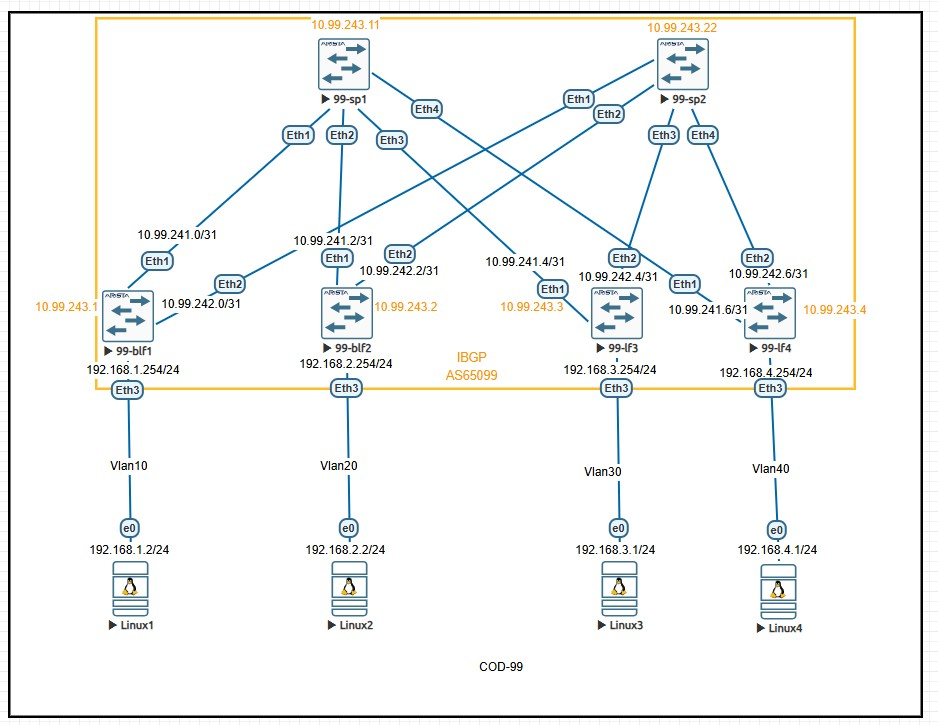
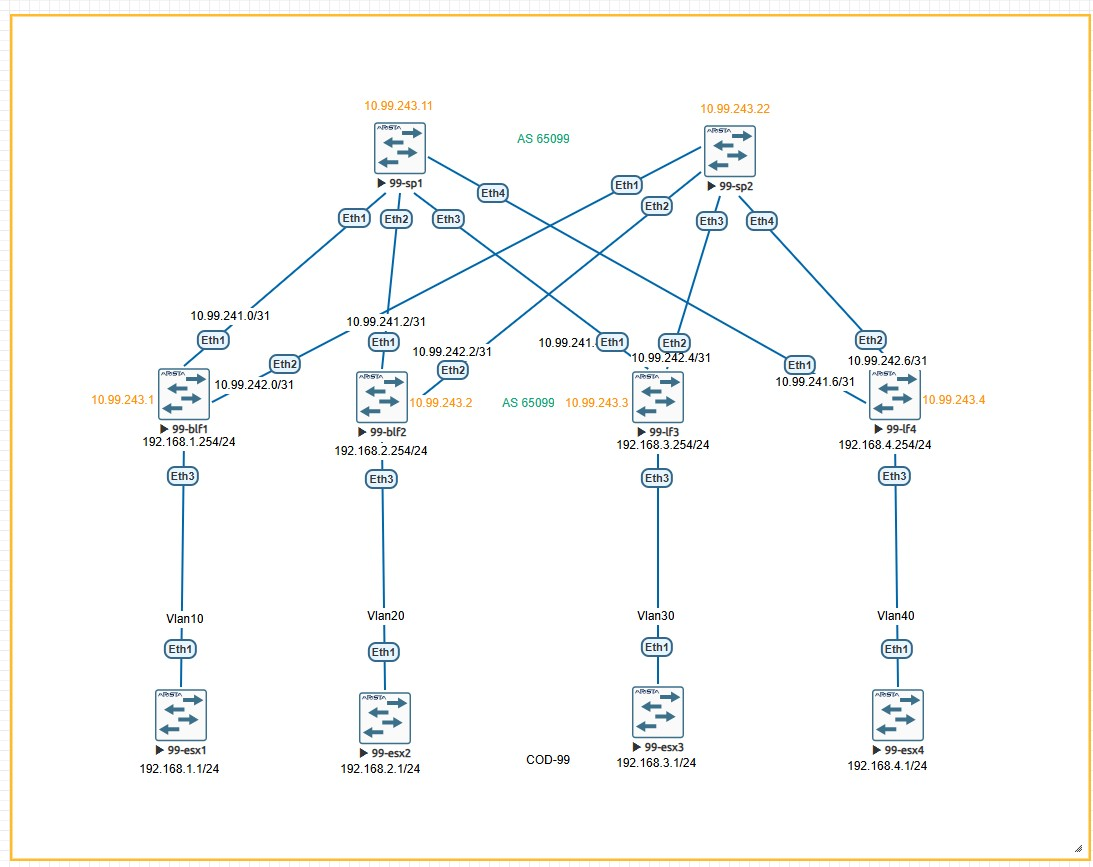
1

diff --git a/labs/lab_04(BGP)/README.md b/labs/lab_04(BGP)/README.md
@@ -451,114 +451,213 @@ ip route 0.0.0.0/0 192.168.N.254
 ---
 
 ## Проверка IP связности
- ## 1. Проверка IS-IS соседств
+ ## 1. Проверка BGP соседств
 ```
-99-sp1#sh isis neighbors
+99-sp1#sh ip bgp summary
+BGP summary information for VRF default
+Router identifier 10.99.243.11, local AS number 65099
+Neighbor Status Codes: m - Under maintenance
+  Neighbor         V  AS           MsgRcvd   MsgSent  InQ OutQ  Up/Down State   PfxRcd PfxAcc
+  10.99.241.0      4  65099            823       829    0    0 00:24:52 Estab   4      4
+  10.99.241.2      4  65099             99       102    0    0 00:04:42 Estab   2      2
+  10.99.241.4      4  65099            995      1006    0    0 00:49:31 Estab   2      2
+  10.99.241.6      4  65099            998      1004    0    0 00:49:35 Estab   4      4
+  
 
-Instance  VRF      System Id        Type Interface          SNPA              State Hold time   Circuit Id
-UNDERLAY  default  99-blf1          L2   Ethernet1          P2P               UP    28          1A     
-UNDERLAY  default  99-blf2          L2   Ethernet2          P2P               UP    28          14     
-UNDERLAY  default  99-lf3           L2   Ethernet3          P2P               UP    22          1A     
+```
+## 2.  Проверка таблицы BGP  
+```
+99-sp1#sh ip bgp
+
+
+         Network                Next Hop            Metric  LocPref Weight  Path
+ * #     10.99.241.0/31         10.99.241.0           0       100     0       i
+ * #     10.99.241.6/31         10.99.241.6           0       100     0       i
+ * >     10.99.242.0/31         10.99.241.0           0       100     0       i
+ * >     10.99.242.6/31         10.99.241.6           0       100     0       i
+ * >     10.99.243.1/32         10.99.241.0           0       100     0       i
+ * >     10.99.243.2/32         10.99.241.2           0       100     0       i
+ * >     10.99.243.3/32         10.99.241.4           0       100     0       i
+ * >     10.99.243.4/32         10.99.241.6           0       100     0       i
+ * >     10.99.243.11/32        -                     0       0       -       i
+ * >     192.168.1.0/24         10.99.241.0           0       100     0       i
+ * >     192.168.2.0/24         10.99.241.2           0       100     0       i
+ * >     192.168.3.0/24         10.99.241.4           0       100     0       i
+ * >     192.168.4.0/24         10.99.241.6           0       100     0       i
 
 ```
-## 2.  Проверка IS-IS database 
 ```
-99-sp1#sh isis database
-Legend:
-H - hostname conflict
-U - node unreachable
+99-lf3#sh ip bgp
 
-IS-IS Instance: UNDERLAY VRF: default
-  IS-IS Level 2 Link State Database
-    LSPID                   Seq Num  Cksum  Life Length IS  Received LSPID        Flags
-    99-blf1.00-00                19  49448   976    133 L2  0100.9924.3001.00-00  <>
-    99-blf2.00-00                10   3287   727    133 L2  0100.9924.3002.00-00  <>
-    99-lf3.00-00                  4   9243   591    132 L2  0100.9924.3003.00-00  <>
-    99-sp1.00-00                 15   8500   976    146 L2  0100.9924.3011.00-00  <>
-    99-sp2.00-00                  7   2840   907    146 L2  0100.9924.3022.00-00  <>
+
+         Network                Next Hop            Metric  LocPref Weight  Path
+ * >     10.99.241.0/31         10.99.242.5           0       100     0       i Or-ID: 10.99.243.1 C-LST: 10.99.243.22
+ * >     10.99.241.6/31         10.99.242.5           0       100     0       i Or-ID: 10.99.243.4 C-LST: 10.99.243.22
+ * >     10.99.242.0/31         10.99.241.5           0       100     0       i Or-ID: 10.99.243.1 C-LST: 10.99.243.11
+ * >     10.99.242.6/31         10.99.241.5           0       100     0       i Or-ID: 10.99.243.4 C-LST: 10.99.243.11
+ * >Ec   10.99.243.1/32         10.99.241.5           0       100     0       i Or-ID: 10.99.243.1 C-LST: 10.99.243.11
+ *  ec   10.99.243.1/32         10.99.242.5           0       100     0       i Or-ID: 10.99.243.1 C-LST: 10.99.243.22
+ * >Ec   10.99.243.2/32         10.99.241.5           0       100     0       i Or-ID: 10.99.243.2 C-LST: 10.99.243.11
+ *  ec   10.99.243.2/32         10.99.242.5           0       100     0       i Or-ID: 10.99.243.2 C-LST: 10.99.243.22
+ * >     10.99.243.3/32         -                     0       0       -       i
+ * >Ec   10.99.243.4/32         10.99.241.5           0       100     0       i Or-ID: 10.99.243.4 C-LST: 10.99.243.11
+ *  ec   10.99.243.4/32         10.99.242.5           0       100     0       i Or-ID: 10.99.243.4 C-LST: 10.99.243.22
+ * >     10.99.243.11/32        10.99.241.5           0       100     0       i
+ * >     10.99.243.22/32        10.99.242.5           0       100     0       i
+ * >Ec   192.168.1.0/24         10.99.241.5           0       100     0       i Or-ID: 10.99.243.1 C-LST: 10.99.243.11
+ *  ec   192.168.1.0/24         10.99.242.5           0       100     0       i Or-ID: 10.99.243.1 C-LST: 10.99.243.22
+ * >Ec   192.168.2.0/24         10.99.241.5           0       100     0       i Or-ID: 10.99.243.2 C-LST: 10.99.243.11
+ *  ec   192.168.2.0/24         10.99.242.5           0       100     0       i Or-ID: 10.99.243.2 C-LST: 10.99.243.22
+ * >     192.168.3.0/24         -                     1       0       -       i
+ * >Ec   192.168.4.0/24         10.99.241.5           0       100     0       i Or-ID: 10.99.243.4 C-LST: 10.99.243.11
+ *  ec   192.168.4.0/24         10.99.242.5           0       100     0       i Or-ID: 10.99.243.4 C-LST: 10.99.243.22
 ```
 
-## 2. Проверка IS-IS маршрутов
+## 2. Проверка таблицы маршрутов
 ```
-99-sp1#sh ip route isis
+99-lf3#sh ip route
 
 VRF: default
+Codes: C - connected, S - static, K - kernel,
+       O - OSPF, IA - OSPF inter area, E1 - OSPF external type 1,
+       E2 - OSPF external type 2, N1 - OSPF NSSA external type 1,
+       N2 - OSPF NSSA external type2, B - Other BGP Routes,
+       B I - iBGP, B E - eBGP, R - RIP, I L1 - IS-IS level 1,
+       I L2 - IS-IS level 2, O3 - OSPFv3, A B - BGP Aggregate,
+       A O - OSPF Summary, NG - Nexthop Group Static Route,
+       V - VXLAN Control Service, M - Martian,
+       DH - DHCP client installed default route,
+       DP - Dynamic Policy Route, L - VRF Leaked,
+       G  - gRIBI, RC - Route Cache Route
 
- I L2     10.99.242.0/31 [115/20]
-           via 10.99.241.0, Ethernet1
- I L2     10.99.242.2/31 [115/20]
-           via 10.99.241.2, Ethernet2
- I L2     10.99.242.4/31 [115/20]
-           via 10.99.241.4, Ethernet3
- I L2     10.99.243.1/32 [115/20]
-           via 10.99.241.0, Ethernet1
- I L2     10.99.243.2/32 [115/20]
-           via 10.99.241.2, Ethernet2
- I L2     10.99.243.3/32 [115/20]
-           via 10.99.241.4, Ethernet3
- I L2     10.99.243.22/32 [115/30]
-           via 10.99.241.0, Ethernet1
-           via 10.99.241.2, Ethernet2
-           via 10.99.241.4, Ethernet3
- I L2     192.168.1.0/24 [115/20]
-           via 10.99.241.0, Ethernet1
- I L2     192.168.2.0/24 [115/20]
-           via 10.99.241.2, Ethernet2
- I L2     192.168.3.0/24 [115/20]
-           via 10.99.241.4, Ethernet3
+Gateway of last resort is not set
+
+ B I      10.99.241.0/31 [200/0] via 10.99.242.5, Ethernet2
+ C        10.99.241.4/31 is directly connected, Ethernet1
+ B I      10.99.241.6/31 [200/0] via 10.99.242.5, Ethernet2
+ B I      10.99.242.0/31 [200/0] via 10.99.241.5, Ethernet1
+ C        10.99.242.4/31 is directly connected, Ethernet2
+ B I      10.99.242.6/31 [200/0] via 10.99.241.5, Ethernet1
+ B I      10.99.243.1/32 [200/0] via 10.99.241.5, Ethernet1
+                                 via 10.99.242.5, Ethernet2
+ B I      10.99.243.2/32 [200/0] via 10.99.241.5, Ethernet1
+                                 via 10.99.242.5, Ethernet2
+ C        10.99.243.3/32 is directly connected, Loopback0
+ B I      10.99.243.4/32 [200/0] via 10.99.241.5, Ethernet1
+                                 via 10.99.242.5, Ethernet2
+ B I      10.99.243.11/32 [200/0] via 10.99.241.5, Ethernet1
+ B I      10.99.243.22/32 [200/0] via 10.99.242.5, Ethernet2
+ B I      192.168.1.0/24 [200/0] via 10.99.241.5, Ethernet1
+                                 via 10.99.242.5, Ethernet2
+ B I      192.168.2.0/24 [200/0] via 10.99.241.5, Ethernet1
+                                 via 10.99.242.5, Ethernet2
+ C        192.168.3.0/24 is directly connected, Vlan30
+ B I      192.168.4.0/24 [200/0] via 10.99.241.5, Ethernet1
+                                 via 10.99.242.5, Ethernet2
+
+
 
 ```
 ## 3. Проверка межсерверной связности между VM 
- ![Проверка пингом между ВМ](linux_ping.jpg)
+```
+99-esx4#ping 192.168.2.1
+PING 192.168.2.1 (192.168.2.1) 72(100) bytes of data.
+80 bytes from 192.168.2.1: icmp_seq=1 ttl=61 time=33.4 ms
+80 bytes from 192.168.2.1: icmp_seq=2 ttl=61 time=25.1 ms
+80 bytes from 192.168.2.1: icmp_seq=3 ttl=61 time=23.6 ms
+80 bytes from 192.168.2.1: icmp_seq=4 ttl=61 time=21.7 ms
+80 bytes from 192.168.2.1: icmp_seq=5 ttl=61 time=23.3 ms
+
+--- 192.168.2.1 ping statistics ---
+5 packets transmitted, 5 received, 0% packet loss, time 84ms
+rtt min/avg/max/mdev = 21.760/25.475/33.424/4.122 ms, pipe 3, ipg/ewma 21.088/29.265 ms
+99-esx4#
+99-esx4#ping 192.168.3.1
+PING 192.168.3.1 (192.168.3.1) 72(100) bytes of data.
+80 bytes from 192.168.3.1: icmp_seq=1 ttl=61 time=54.4 ms
+80 bytes from 192.168.3.1: icmp_seq=2 ttl=61 time=44.8 ms
+80 bytes from 192.168.3.1: icmp_seq=3 ttl=61 time=36.0 ms
+80 bytes from 192.168.3.1: icmp_seq=4 ttl=61 time=28.7 ms
+80 bytes from 192.168.3.1: icmp_seq=5 ttl=61 time=21.5 ms
+
+--- 192.168.3.1 ping statistics ---
+5 packets transmitted, 5 received, 0% packet loss, time 44ms
+rtt min/avg/max/mdev = 21.521/37.121/54.461/11.624 ms, pipe 5, ipg/ewma 11.094/44.962 ms
+99-esx4#
+99-esx4#ping 192.168.1.1
+PING 192.168.1.1 (192.168.1.1) 72(100) bytes of data.
+80 bytes from 192.168.1.1: icmp_seq=1 ttl=61 time=56.6 ms
+80 bytes from 192.168.1.1: icmp_seq=2 ttl=61 time=47.1 ms
+80 bytes from 192.168.1.1: icmp_seq=3 ttl=61 time=39.0 ms
+80 bytes from 192.168.1.1: icmp_seq=4 ttl=61 time=31.5 ms
+80 bytes from 192.168.1.1: icmp_seq=5 ttl=61 time=24.6 ms
+
+--- 192.168.1.1 ping statistics ---
+5 packets transmitted, 5 received, 0% packet loss, time 43ms
+rtt min/avg/max/mdev = 24.659/39.796/56.616/11.273 ms, pipe 5, ipg/ewma 10.959/47.401 ms
+```
 
 ## 4. Проверка связности между loopback адресами
 ```
-99-lf3#ping 10.99.243.1 source 10.99.243.3
-PING 10.99.243.1 (10.99.243.1) from 10.99.243.3 : 72(100) bytes of data.
-80 bytes from 10.99.243.1: icmp_seq=1 ttl=63 time=3.16 ms
-80 bytes from 10.99.243.1: icmp_seq=2 ttl=63 time=1.82 ms
-80 bytes from 10.99.243.1: icmp_seq=3 ttl=63 time=1.81 ms
-80 bytes from 10.99.243.1: icmp_seq=4 ttl=63 time=1.80 ms
-80 bytes from 10.99.243.1: icmp_seq=5 ttl=63 time=1.82 ms
+99-lf4#ping 10.99.243.1
+PING 10.99.243.1 (10.99.243.1) 72(100) bytes of data.
+80 bytes from 10.99.243.1: icmp_seq=1 ttl=63 time=16.0 ms
+80 bytes from 10.99.243.1: icmp_seq=2 ttl=63 time=9.79 ms
+80 bytes from 10.99.243.1: icmp_seq=3 ttl=63 time=8.53 ms
+80 bytes from 10.99.243.1: icmp_seq=4 ttl=63 time=7.39 ms
+80 bytes from 10.99.243.1: icmp_seq=5 ttl=63 time=9.31 ms
 
 --- 10.99.243.1 ping statistics ---
-5 packets transmitted, 5 received, 0% packet loss, time 13ms
-rtt min/avg/max/mdev = 1.795/2.081/3.162/0.540 ms, ipg/ewma 3.314/2.603 ms
-
-99-lf3#
-99-lf3#ping 10.99.243.2 source 10.99.243.3
-PING 10.99.243.2 (10.99.243.2) from 10.99.243.3 : 72(100) bytes of data.
-80 bytes from 10.99.243.2: icmp_seq=1 ttl=63 time=4.24 ms
-80 bytes from 10.99.243.2: icmp_seq=2 ttl=63 time=2.71 ms
-80 bytes from 10.99.243.2: icmp_seq=3 ttl=63 time=2.47 ms
-80 bytes from 10.99.243.2: icmp_seq=4 ttl=63 time=2.36 ms
-80 bytes from 10.99.243.2: icmp_seq=5 ttl=63 time=2.27 ms
+5 packets transmitted, 5 received, 0% packet loss, time 55ms
+rtt min/avg/max/mdev = 7.395/10.206/16.002/3.011 ms, pipe 2, ipg/ewma 13.761/12.989 ms
+99-lf4#
+99-lf4#ping 10.99.243.2
+PING 10.99.243.2 (10.99.243.2) 72(100) bytes of data.
+80 bytes from 10.99.243.2: icmp_seq=1 ttl=63 time=11.0 ms
+80 bytes from 10.99.243.2: icmp_seq=2 ttl=63 time=10.9 ms
+80 bytes from 10.99.243.2: icmp_seq=3 ttl=63 time=9.15 ms
+80 bytes from 10.99.243.2: icmp_seq=4 ttl=63 time=9.42 ms
+80 bytes from 10.99.243.2: icmp_seq=5 ttl=63 time=10.3 ms
 
 --- 10.99.243.2 ping statistics ---
-5 packets transmitted, 5 received, 0% packet loss, time 17ms
-rtt min/avg/max/mdev = 2.271/2.809/4.240/0.730 ms, ipg/ewma 4.361/3.490 ms
+5 packets transmitted, 5 received, 0% packet loss, time 49ms
+rtt min/avg/max/mdev = 9.152/10.182/11.027/0.782 ms, ipg/ewma 12.442/10.580 ms
+99-lf4#
+99-lf4#ping 10.99.243.3
+PING 10.99.243.3 (10.99.243.3) 72(100) bytes of data.
+80 bytes from 10.99.243.3: icmp_seq=1 ttl=63 time=16.6 ms
+80 bytes from 10.99.243.3: icmp_seq=2 ttl=63 time=9.10 ms
+80 bytes from 10.99.243.3: icmp_seq=3 ttl=63 time=15.4 ms
+80 bytes from 10.99.243.3: icmp_seq=4 ttl=63 time=8.76 ms
+80 bytes from 10.99.243.3: icmp_seq=5 ttl=63 time=11.6 ms
 
-99-lf3#ping 10.99.243.11 source 10.99.243.3
-PING 10.99.243.11 (10.99.243.11) from 10.99.243.3 : 72(100) bytes of data.
-80 bytes from 10.99.243.11: icmp_seq=1 ttl=64 time=1.90 ms
-80 bytes from 10.99.243.11: icmp_seq=2 ttl=64 time=0.871 ms
-80 bytes from 10.99.243.11: icmp_seq=3 ttl=64 time=0.838 ms
-80 bytes from 10.99.243.11: icmp_seq=4 ttl=64 time=0.768 ms
-80 bytes from 10.99.243.11: icmp_seq=5 ttl=64 time=0.881 ms
+--- 10.99.243.3 ping statistics ---
+5 packets transmitted, 5 received, 0% packet loss, time 61ms
+rtt min/avg/max/mdev = 8.763/12.323/16.650/3.224 ms, pipe 2, ipg/ewma 15.431/14.415 ms
+99-lf4#
+99-lf4#ping 10.99.243.11
+PING 10.99.243.11 (10.99.243.11) 72(100) bytes of data.
+80 bytes from 10.99.243.11: icmp_seq=1 ttl=64 time=9.04 ms
+80 bytes from 10.99.243.11: icmp_seq=2 ttl=64 time=5.63 ms
+80 bytes from 10.99.243.11: icmp_seq=3 ttl=64 time=3.73 ms
+80 bytes from 10.99.243.11: icmp_seq=4 ttl=64 time=2.75 ms
+80 bytes from 10.99.243.11: icmp_seq=5 ttl=64 time=2.95 ms
 
 --- 10.99.243.11 ping statistics ---
-5 packets transmitted, 5 received, 0% packet loss, time 10ms
-rtt min/avg/max/mdev = 0.768/1.050/1.895/0.424 ms, ipg/ewma 2.490/1.458 ms
-99-lf3#
-99-lf3#ping 10.99.243.22 source 10.99.243.3
-PING 10.99.243.22 (10.99.243.22) from 10.99.243.3 : 72(100) bytes of data.
-80 bytes from 10.99.243.22: icmp_seq=1 ttl=64 time=3.17 ms
-80 bytes from 10.99.243.22: icmp_seq=2 ttl=64 time=1.94 ms
-80 bytes from 10.99.243.22: icmp_seq=3 ttl=64 time=1.96 ms
-80 bytes from 10.99.243.22: icmp_seq=4 ttl=64 time=1.85 ms
-80 bytes from 10.99.243.22: icmp_seq=5 ttl=64 time=0.833 ms
+5 packets transmitted, 5 received, 0% packet loss, time 35ms
+rtt min/avg/max/mdev = 2.759/4.825/9.044/2.342 ms, ipg/ewma 8.788/6.801 ms
+99-lf4#
+99-lf4#ping 10.99.243.22
+PING 10.99.243.22 (10.99.243.22) 72(100) bytes of data.
+80 bytes from 10.99.243.22: icmp_seq=1 ttl=64 time=5.98 ms
+80 bytes from 10.99.243.22: icmp_seq=2 ttl=64 time=3.06 ms
+80 bytes from 10.99.243.22: icmp_seq=3 ttl=64 time=3.45 ms
+80 bytes from 10.99.243.22: icmp_seq=4 ttl=64 time=2.77 ms
+80 bytes from 10.99.243.22: icmp_seq=5 ttl=64 time=2.96 ms
 
 --- 10.99.243.22 ping statistics ---
-5 packets transmitted, 5 received, 0% packet loss, time 14ms
-rtt min/avg/max/mdev = 0.833/1.949/3.166/0.739 ms, ipg/ewma 3.409/2.512 ms
+5 packets transmitted, 5 received, 0% packet loss, time 24ms
+rtt min/avg/max/mdev = 2.776/3.649/5.984/1.189 ms, ipg/ewma 6.054/4.769 ms
+99-lf4#
+
 ```
